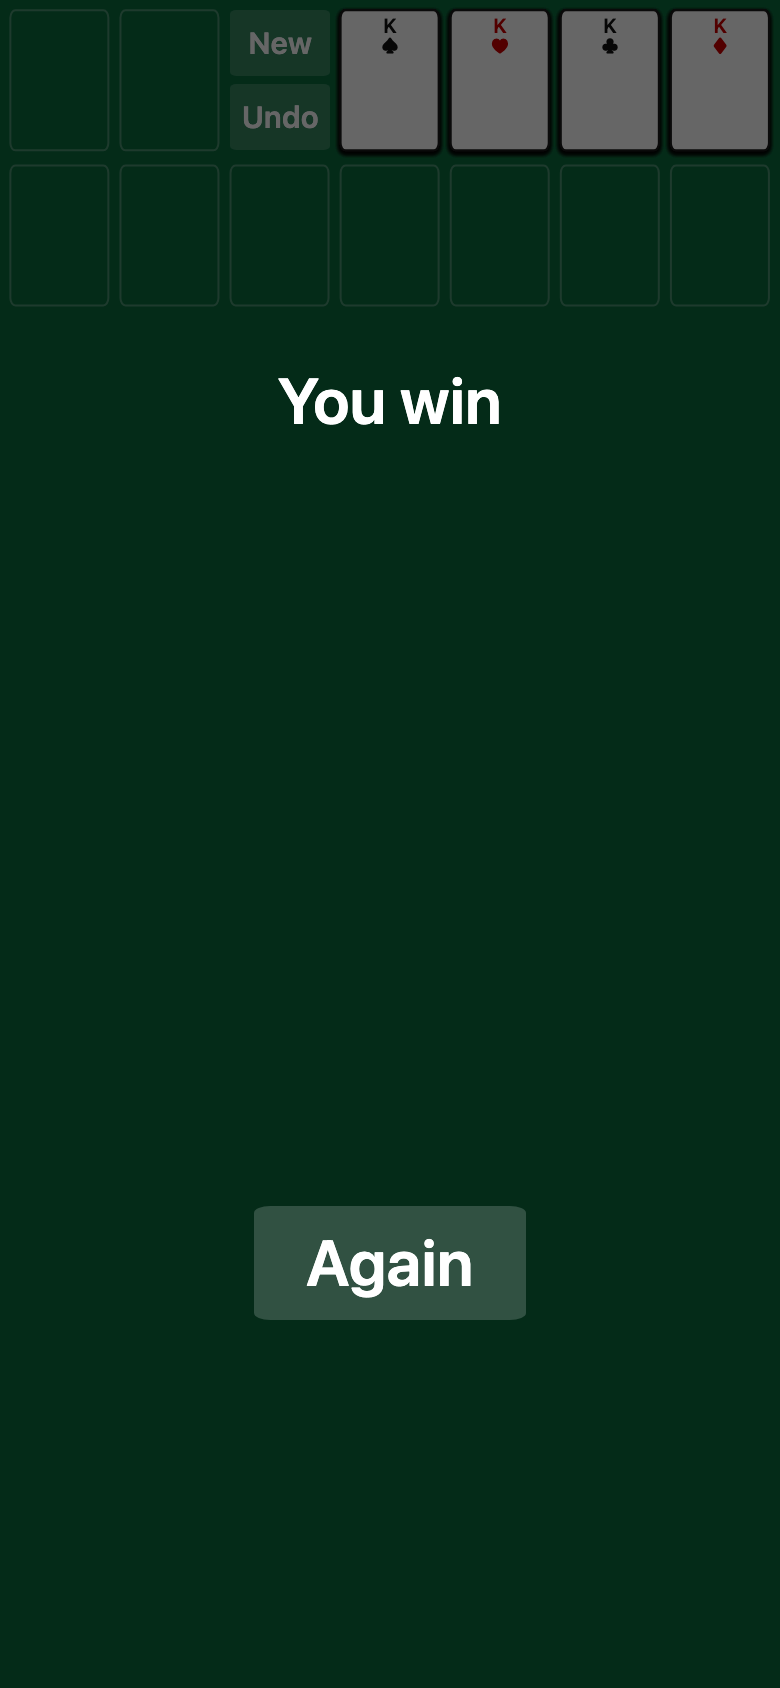
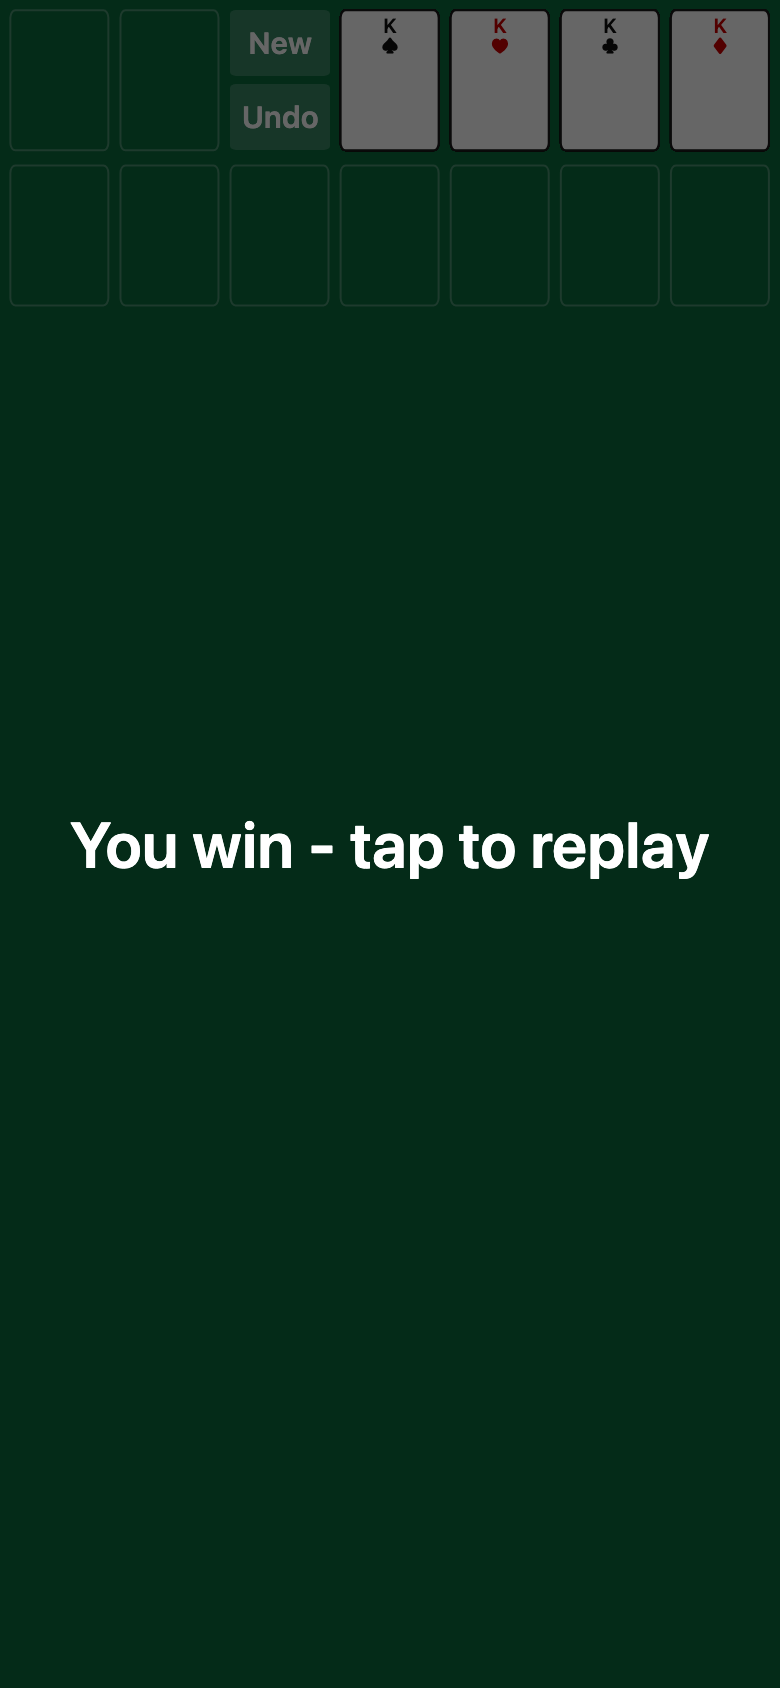
shrink: 7,310 -> 6,950 B raw (3,433 gzip, 2,907 brotli)
Deleted content instead of renaming it, because the served bytes are already
compressed: aliasing getElementById/addEventListener/Math, classList->hidden and
transform->translate all shrink raw while making gzip/brotli *worse* (measured
+37 gzip / +54 brotli), and a destructuring swap cost 23 brotli bytes for zero
raw gain.

Kept:
  - CSS: drop will-change, card/selection shadows, -webkit-user-select,
    height:100%, the win-button rules, 4-digit hex alphas, shorter gradient stops
  - shell: win overlay is tap-anywhere (-50 B, no Again button); HTML attribute
    quotes dropped by the build
  - JS: 65 board nodes from one innerHTML parse, place() reused for the drag,
    bar.style hoist, |0 for Math.floor, [...Array(52).keys()]
  - build gate tightened: raw <= 7,000 and brotli <= 3,000 (was 12 KB / 5 KB)

Verified: 14/14 logic tests, 28/28 headless-Chrome checks (new: tapping the win
overlay deals a new game), screenshots re-reviewed, exactly 1 HTTP request.

diff --git a/dist/index.html b/dist/index.html
@@ -1,2 +1,2 @@
-<!doctype html><html lang="en"><head><meta charset="utf-8"><meta name="viewport" content="width=device-width,initial-scale=1"><title>Solitaire</title><link rel="icon" href="data:,"><style>*{box-sizing:border-box;margin:0;padding:0}html,body{overflow:hidden;font:600 1em/1 var(--f,system-ui);user-select:none;-webkit-user-select:none;touch-action:none;background:#0a6b3d;height:100%}#b{position:fixed;--w:60px;--h:84px;font-variant-emoji:text;inset:0}#b>div{position:absolute;width:var(--w);height:var(--h);border-radius:6%;top:0;left:0}.e{pointer-events:none;border:1px solid #fff4}.c{color:#111;display:grid;white-space:pre;text-align:center;will-change:transform;background:#fff;border:1px solid #1a1a1a;align-content: start;justify-items:center;padding-top:.15em;transition:transform .18s ease-out;line-height:1.05;box-shadow:0 1px 2px #0004}#b.d>div{transition:none}.r{color:#c00}.k{background:repeating-linear-gradient(45deg,#123f6b 0 5px,#1b5c96 5px 10px);border-color:#08203c}.s{outline:.16em solid #fd0;outline-offset:-.16em;box-shadow:0 3px 9px #0005}.p{animation:f .3s ease-out}@keyframes f{50%{background:#ffdf85}}#h{position:fixed;display:flex;flex-direction:column;gap:6%}#h button,#w button{color:#fff;font:inherit;cursor:pointer;background:#ffffff2e;border:0;border-radius:6%;flex:1}#h button:active{background:#fff6}#w{position:fixed;display:none;color:#fff;text-align:center;background:#0009;place-items: center;font-size:2em;inset:0}#w.on{display:grid;animation:o .25s}@keyframes o{0%{opacity:0}}#w button{margin-top:.6em;padding:.4em .8em}@media (prefers-reduced-motion:reduce){.c{transition:none}.p,#w.on{animation:none}}</style></head><body><div id="b"></div><div id="h"><button id="n">New</button><button id="u">Undo</button></div><div id="w">You win<button id="n2">Again</button></div><script>(()=>{var r="A23456789TJQK",p="♠♥♣♦",D=(A)=>A%13,h=(A)=>A/13|0,m=(A)=>(A/13|0)%2>0,U=(A)=>(A&64)>0;function i(A){let q=Array.from({length:52},(I,F)=>F),B=A>>>0||1,C=()=>{return B^=B<<13,B>>>=0,B^=B>>>17,B>>>=0,B^=B<<5,B>>>=0,B/4294967296};for(let I=51;I>0;I--){let F=C()*(I+1)|0,M=q[I];q[I]=q[F],q[F]=M}let G=[],Y=0;for(let I=0;I<7;I++){let F=[];for(let M=0;M<=I;M++)F.push(q[Y++]|(M<I?64:0));G.push(F)}return{t:G,f:[0,0,0,0],s:q.slice(Y),w:[]}}function Z(A,q){if(q.k===0){let B=A.t[q.i];return q.j<B.length?B[q.j]:-1}if(q.k===3)return A.w.length?A.w[A.w.length-1]:-1;if(q.k===1)return A.f[q.i]?q.i*13+A.f[q.i]-1:-1;return-1}function Cq(A,q){for(let B=q;B<A.length-1;B++){let C=A[B],G=A[B+1];if(U(C)||U(G)||D(C)!==D(G)+1||m(C)===m(G))return!1}return!U(A[q])}var u=(A,q)=>{let B=Z(A,q);return B>=0&&!U(B)&&(q.k!==0||Cq(A.t[q.i],q.j))};function Eq(A,q,B){let C=A.t[B];if(!C.length)return D(q)===12;let G=C[C.length-1];return!U(G)&&D(G)===D(q)+1&&m(G)!==m(q)}function s(A,q,B){if(!u(A,q)||q.k===B.k&&q.i===B.i)return!1;let C=Z(A,q);if(B.k===1){if(q.k===1)return!1;if(q.k===0&&q.j!==A.t[q.i].length-1)return!1;if(C!==B.i*13+A.f[B.i])return!1;if(q.k===0)A.t[q.i].pop();else A.w.pop();A.f[B.i]++}else if(B.k===0){if(!Eq(A,C,B.i))return!1;if(q.k===0)A.t[B.i].push(...A.t[q.i].splice(q.j));else if(q.k===3)A.t[B.i].push(A.w.pop());else A.f[q.i]--,A.t[B.i].push(C)}else return!1;if(q.k===0){let G=A.t[q.i];if(G.length&&U(G[G.length-1]))G[G.length-1]^=64}return!0}function d(A){if(A.s.length)return A.w.push(A.s.pop()),!0;if(A.w.length)return A.s=A.w.reverse(),A.w=[],!0;return!1}var g=(A)=>A.f[0]+A.f[1]+A.f[2]+A.f[3]===52,n=(A)=>JSON.stringify(A),e=(A,q)=>Object.assign(A,JSON.parse(q));var T=document.getElementById("b"),t=document.getElementById("w"),K=document.getElementById("h"),Gq=r,Hq=p,W=[],O=[];for(let A=0;A<13;A++){let q=document.createElement("div");q.className="e",T.append(q),O[A]=q}for(let A=0;A<52;A++){let q=document.createElement("div");q.className="c",q._c=A,T.append(q),W[A]=q}var H,S=[],E=0,N=0,V=0,Aq=[],f=0,k=0,w=0,b=0,Q=0,X=0,J=0,R=0,_=99,j=-1,Iq=matchMedia("(prefers-reduced-motion:reduce)").matches,P=(A)=>J+A*(Q+J);function Bq(){Q=Math.min(innerWidth*0.904/7,innerHeight*0.16),J=(innerWidth-7*Q)/8,X=Q*1.4,R=J+X+J*1.5,T.style.setProperty("--w",Q+"px"),T.style.setProperty("--h",X+"px"),T.style.fontSize=Q*0.2+"px",K.style.left=P(2)+"px",K.style.top=J+"px",K.style.width=Q+"px",K.style.height=X+"px",K.style.fontSize=Q*0.3+"px"}function $(A,q,B,C){A.style.transform="translate("+q+"px,"+B+"px)",A.style.zIndex=C,A._x=q,A._y=B}function x(A,q,B,C,G,Y){let I=h(q),F=q%13;A.className="c"+(I%2?" r":"")+(Y?" s":"")+(q===j?" p":""),A.textContent=(F===9?"10":Gq[F])+`
-`+Hq[I],$(A,B,C,G)}function a(A,q,B,C){A.className="c k",A.textContent="",$(A,q,B,C)}function L(){for(let q=0;q<7;q++)$(O[q],P(q),R,0);for(let q=0;q<4;q++)$(O[7+q],P(3+q),J,0);$(O[11],P(0),J,0),$(O[12],P(1),J,0);let A=innerHeight-R-X;for(let q=0;q<7;q++){let B=H.t[q],C=[],G=0;for(let F=0;F<B.length;F++)C.push(G),G+=U(B[F])?X*0.16:X*0.42;let Y=G>A?A/G:1,I=_<99;for(let F=0;F<B.length;F++){let M=W[B[F]&63],y=P(q),o=R+C[F]*Y,v=F+1,c=!U(B[F])&&!I;if(I&&F*7+q>=_)y=P(0),o=J,v=40+F,c=0;if(c)x(M,B[F],y,o,v,E&&E.k===0&&E.i===q&&F>=E.j);else a(M,y,o,v);M._k=0,M._i=q,M._j=F}}for(let q=0;q<4;q++)if(H.f[q]){let B=q*13+H.f[q]-1,C=W[B];x(C,B,P(3+q),J,1,0),C._k=1,C._i=q,C._j=0}for(let q=0;q<H.s.length;q++){let B=W[H.s[q]];a(B,P(0),J,q+1),B._k=2,B._i=0,B._j=q}for(let q=0;q<H.w.length;q++){let B=H.w[q],C=W[B];x(C,B,P(1)+Math.min(H.w.length-1-q,3)*Q*0.14,J,q+1,E&&E.k===3&&q===H.w.length-1),C._k=3,C._i=0,C._j=q}if(V)for(let q of Aq){let B=W[q.v];B.style.transform="translate("+(f+q.x)+"px,"+(k+q.y)+"px)",B.style.zIndex=99}}function qq(A,q){let B=Math.max(0,Math.min(6,Math.floor((A-J)/(Q+J))));if(q<R)return B===0?{k:2}:B===1?{k:3}:B>2?{k:1,i:B-3}:0;return{k:0,i:B}}var Jq=(A)=>A.k===0?H.t[A.i].slice(A.j).map((q)=>q&63):[Z(H,A)&63];function z(A,q){let B=n(H),C=Z(H,A)&63;if(!s(H,A,q))return 0;if(S.push(B),q.k===1)j=C,setTimeout(()=>{j=-1,L()},300);if(g(H))t.classList.add("on");return 1}function Lq(A,q){if(q&&q.k===2){let B=n(H);if(d(H))S.push(B);E=0,L();return}if(!A){if(E&&q)z(E,q),E=0,L();return}if(E&&E.k===A.k&&E.i===A.i&&E.j===A.j){let B=Z(H,E);if(B>=0)z(E,{k:1,i:h(B)});E=0,L();return}if(E&&q&&z(E,q)){E=0,L();return}E=u(H,A)?{k:A.k,i:A.i,j:A.j}:0,L()}T.addEventListener("pointerdown",(A)=>{let q=A.target;N=q._c!=null?{k:q._k,i:q._i,j:q._j}:0,w=f=A.clientX,b=k=A.clientY,V=0});addEventListener("pointermove",(A)=>{if(!N)return;if(f=A.clientX,k=A.clientY,!V){if(Math.abs(f-w)+Math.abs(k-b)<9||!u(H,N))return;E={k:N.k,i:N.i,j:N.j},Aq=Jq(E).map((q)=>({v:q,x:W[q]._x-w,y:W[q]._y-b})),V=1,T.classList.add("d")}L()});addEventListener("pointerup",(A)=>{let q=N;if(N=0,V){if(V=0,T.classList.remove("d"),!z(E,qq(A.clientX,A.clientY)))E=0;L();return}Lq(q,qq(A.clientX,A.clientY))});addEventListener("pointercancel",()=>{N=0,V=0,T.classList.remove("d"),L()});function Mq(){if(!S.length)return;e(H,S.pop()),E=0,V=0,N=0,t.classList.remove("on"),L()}function l(A){if(H=i(A),S=[],E=0,V=0,N=0,j=-1,t.classList.remove("on"),Bq(),L(),Iq)return;_=0,L(),T.offsetHeight;let q=()=>{if(_+=2,_<50)L(),requestAnimationFrame(q);else _=99,L()};requestAnimationFrame(q)}document.getElementById("u").onclick=Mq;document.getElementById("n").onclick=()=>l(Date.now());document.getElementById("n2").onclick=()=>l(Date.now());addEventListener("resize",()=>{Bq(),L()});l(+location.hash.slice(1)||Date.now());})();</script></body></html>
+<!doctype html><html lang=en><head><meta charset=utf-8><meta name=viewport content="width=device-width,initial-scale=1"><title>Solitaire</title><link rel=icon href=data:,><style>*{box-sizing:border-box;margin:0;padding:0}html,body{overflow:hidden;font:600 1em/1 var(--f,system-ui);user-select:none;touch-action:none;background:#0a6b3d}#b{position:fixed;--w:60px;--h:84px;font-variant-emoji:text;inset:0}#b>div{position:absolute;width:var(--w);height:var(--h);border-radius:6%;top:0;left:0}.e{pointer-events:none;border:1px solid #fff4}.c{color:#111;display:grid;white-space:pre;text-align:center;background:#fff;border:1px solid #1a1a1a;align-content: start;justify-items:center;padding-top:.15em;transition:transform .18s ease-out;line-height:1.05}#b.d>div{transition:none}.r{color:#c00}.k{background:repeating-linear-gradient(45deg,#123f6b 0 5px,#1b5c96 0 10px);border-color:#08203c}.s{outline:.16em solid #fd0;outline-offset:-.16em}.p{animation:f .3s ease-out}@keyframes f{50%{background:#ffdf85}}#h{position:fixed;display:flex;flex-direction:column;gap:6%}#h button{color:#fff;font:inherit;cursor:pointer;background:#fff3;border:0;border-radius:6%;flex:1}#h button:active{background:#fff6}#w{position:fixed;display:none;color:#fff;text-align:center;background:#0009;place-items: center;font-size:2em;inset:0}#w.on{display:grid;animation:o .25s}@keyframes o{0%{opacity:0}}@media (prefers-reduced-motion:reduce){.c{transition:none}.p,#w.on{animation:none}}</style></head><body><div id=b></div><div id=h><button id=n>New</button><button id=u>Undo</button></div><div id=w>You win - tap to replay</div><script>(()=>{var r="A23456789TJQK",c="♠♥♣♦",D=(A)=>A%13,h=(A)=>A/13|0,S=(A)=>(A/13|0)%2>0,U=(A)=>(A&64)>0;function p(A){let q=[...Array(52).keys()],B=A>>>0||1,C=()=>{return B^=B<<13,B>>>=0,B^=B>>>17,B>>>=0,B^=B<<5,B>>>=0,B/4294967296};for(let I=51;I>0;I--){let F=C()*(I+1)|0,M=q[I];q[I]=q[F],q[F]=M}let G=[],Z=0;for(let I=0;I<7;I++){let F=[];for(let M=0;M<=I;M++)F.push(q[Z++]|(M<I?64:0));G.push(F)}return{t:G,f:[0,0,0,0],s:q.slice(Z),w:[]}}function _(A,q){if(q.k===0){let B=A.t[q.i];return q.j<B.length?B[q.j]:-1}if(q.k===3)return A.w.length?A.w[A.w.length-1]:-1;if(q.k===1)return A.f[q.i]?q.i*13+A.f[q.i]-1:-1;return-1}function Bq(A,q){for(let B=q;B<A.length-1;B++){let C=A[B],G=A[B+1];if(U(C)||U(G)||D(C)!==D(G)+1||S(C)===S(G))return!1}return!U(A[q])}var m=(A,q)=>{let B=_(A,q);return B>=0&&!U(B)&&(q.k!==0||Bq(A.t[q.i],q.j))};function Cq(A,q,B){let C=A.t[B];if(!C.length)return D(q)===12;let G=C[C.length-1];return!U(G)&&D(G)===D(q)+1&&S(G)!==S(q)}function i(A,q,B){if(!m(A,q)||q.k===B.k&&q.i===B.i)return!1;let C=_(A,q);if(B.k===1){if(q.k===1)return!1;if(q.k===0&&q.j!==A.t[q.i].length-1)return!1;if(C!==B.i*13+A.f[B.i])return!1;if(q.k===0)A.t[q.i].pop();else A.w.pop();A.f[B.i]++}else if(B.k===0){if(!Cq(A,C,B.i))return!1;if(q.k===0)A.t[B.i].push(...A.t[q.i].splice(q.j));else if(q.k===3)A.t[B.i].push(A.w.pop());else A.f[q.i]--,A.t[B.i].push(C)}else return!1;if(q.k===0){let G=A.t[q.i];if(G.length&&U(G[G.length-1]))G[G.length-1]^=64}return!0}function s(A){if(A.s.length)return A.w.push(A.s.pop()),!0;if(A.w.length)return A.s=A.w.reverse(),A.w=[],!0;return!1}var d=(A)=>A.f[0]+A.f[1]+A.f[2]+A.f[3]===52,b=(A)=>JSON.stringify(A),g=(A,q)=>Object.assign(A,JSON.parse(q));var P=document.getElementById("b"),j=document.getElementById("w"),Fq=document.getElementById("h"),Gq=r,Hq=c,W=[],K=[];P.innerHTML="<div></div>".repeat(65);for(let A=0;A<13;A++){let q=K[A]=P.children[A];q.className="e"}for(let A=0;A<52;A++){let q=W[A]=P.children[A+13];q.className="c",q._c=A}var H,R=[],E=0,N=0,V=0,qq=[],u=0,z=0,n=0,w=0,T=0,Y=0,J=0,O=0,$=99,k=-1,Iq=matchMedia("(prefers-reduced-motion:reduce)").matches,Q=(A)=>J+A*(T+J);function Aq(){T=Math.min(innerWidth*0.904/7,innerHeight*0.16),J=(innerWidth-7*T)/8,Y=T*1.4,O=J+Y+J*1.5,P.style.setProperty("--w",T+"px"),P.style.setProperty("--h",Y+"px"),P.style.fontSize=T*0.2+"px";let A=Fq.style;A.left=Q(2)+"px",A.top=J+"px",A.width=T+"px",A.height=Y+"px",A.fontSize=T*0.3+"px"}function X(A,q,B,C){A.style.transform="translate("+q+"px,"+B+"px)",A.style.zIndex=C,A._x=q,A._y=B}function x(A,q,B,C,G,Z){let I=h(q),F=q%13;A.className="c"+(I%2?" r":"")+(Z?" s":"")+(q===k?" p":""),A.textContent=(F===9?"10":Gq[F])+`
+`+Hq[I],X(A,B,C,G)}function e(A,q,B,C){A.className="c k",A.textContent="",X(A,q,B,C)}function L(){for(let q=0;q<7;q++)X(K[q],Q(q),O,0);for(let q=0;q<4;q++)X(K[7+q],Q(3+q),J,0);X(K[11],Q(0),J,0),X(K[12],Q(1),J,0);let A=innerHeight-O-Y;for(let q=0;q<7;q++){let B=H.t[q],C=[],G=0;for(let F=0;F<B.length;F++)C.push(G),G+=U(B[F])?Y*0.16:Y*0.42;let Z=G>A?A/G:1,I=$<99;for(let F=0;F<B.length;F++){let M=W[B[F]&63],y=Q(q),o=O+C[F]*Z,v=F+1,l=!U(B[F])&&!I;if(I&&F*7+q>=$)y=Q(0),o=J,v=40+F,l=0;if(l)x(M,B[F],y,o,v,E&&E.k===0&&E.i===q&&F>=E.j);else e(M,y,o,v);M._k=0,M._i=q,M._j=F}}for(let q=0;q<4;q++)if(H.f[q]){let B=q*13+H.f[q]-1,C=W[B];x(C,B,Q(3+q),J,1,0),C._k=1,C._i=q,C._j=0}for(let q=0;q<H.s.length;q++){let B=W[H.s[q]];e(B,Q(0),J,q+1),B._k=2,B._i=0,B._j=q}for(let q=0;q<H.w.length;q++){let B=H.w[q],C=W[B];x(C,B,Q(1)+Math.min(H.w.length-1-q,3)*T*0.14,J,q+1,E&&E.k===3&&q===H.w.length-1),C._k=3,C._i=0,C._j=q}if(V)for(let q of qq)X(W[q.v],u+q.x,z+q.y,99)}function a(A,q){let B=Math.max(0,Math.min(6,(A-J)/(T+J)|0));if(q<O)return B===0?{k:2}:B===1?{k:3}:B>2?{k:1,i:B-3}:0;return{k:0,i:B}}var Jq=(A)=>A.k===0?H.t[A.i].slice(A.j).map((q)=>q&63):[_(H,A)&63];function f(A,q){let B=b(H),C=_(H,A)&63;if(!i(H,A,q))return 0;if(R.push(B),q.k===1)k=C,setTimeout(()=>{k=-1,L()},300);if(d(H))j.classList.add("on");return 1}function Lq(A,q){if(q&&q.k===2){let B=b(H);if(s(H))R.push(B);E=0,L();return}if(!A){if(E&&q)f(E,q),E=0,L();return}if(E&&E.k===A.k&&E.i===A.i&&E.j===A.j){let B=_(H,E);if(B>=0)f(E,{k:1,i:h(B)});E=0,L();return}if(E&&q&&f(E,q)){E=0,L();return}E=m(H,A)?{k:A.k,i:A.i,j:A.j}:0,L()}P.addEventListener("pointerdown",(A)=>{let q=A.target;N=q._c!=null?{k:q._k,i:q._i,j:q._j}:0,n=u=A.clientX,w=z=A.clientY,V=0});addEventListener("pointermove",(A)=>{if(!N)return;if(u=A.clientX,z=A.clientY,!V){if(Math.abs(u-n)+Math.abs(z-w)<9||!m(H,N))return;E={k:N.k,i:N.i,j:N.j},qq=Jq(E).map((q)=>({v:q,x:W[q]._x-n,y:W[q]._y-w})),V=1,P.classList.add("d")}L()});addEventListener("pointerup",(A)=>{let q=N;if(N=0,V){if(V=0,P.classList.remove("d"),!f(E,a(A.clientX,A.clientY)))E=0;L();return}Lq(q,a(A.clientX,A.clientY))});addEventListener("pointercancel",()=>{N=0,V=0,P.classList.remove("d"),L()});function Mq(){if(!R.length)return;g(H,R.pop()),E=0,V=0,N=0,j.classList.remove("on"),L()}function t(A){if(H=p(A),R=[],E=0,V=0,N=0,k=-1,j.classList.remove("on"),Aq(),L(),Iq)return;$=0,L(),P.offsetHeight;let q=()=>{if($+=2,$<50)L(),requestAnimationFrame(q);else $=99,L()};requestAnimationFrame(q)}document.getElementById("u").onclick=Mq;document.getElementById("n").onclick=()=>t(Date.now());j.onclick=()=>t(Date.now());addEventListener("resize",()=>{Aq(),L()});t(+location.hash.slice(1)||Date.now());})();</script></body></html>

diff --git a/src/ui.js b/src/ui.js
@@ -7,8 +7,10 @@ const b = document.getElementById('b'),
   S = K.SUITS;
 
 const cards = [], slots = [];
-for (let i = 0; i < 13; i++) { const e = document.createElement('div'); e.className = 'e'; b.append(e); slots[i] = e; }
-for (let i = 0; i < 52; i++) { const e = document.createElement('div'); e.className = 'c'; e._c = i; b.append(e); cards[i] = e; }
+// one parse beats 65 createElement/append pairs; order is 13 slots then 52 cards
+b.innerHTML = '<div></div>'.repeat(65);
+for (let i = 0; i < 13; i++) { const e = slots[i] = b.children[i]; e.className = 'e'; }
+for (let i = 0; i < 52; i++) { const e = cards[i] = b.children[i + 13]; e.className = 'c'; e._c = i; }
 
 let g, hist = [], sel = 0, dn = 0, drag = 0, dl = [], px = 0, py = 0, sx = 0, sy = 0;
 let cw = 0, ch = 0, pad = 0, row2 = 0, dealt = 99, pop = -1;
@@ -24,11 +26,12 @@ function size() {
   b.style.setProperty('--w', cw + 'px');
   b.style.setProperty('--h', ch + 'px');
   b.style.fontSize = cw * 0.2 + 'px';
-  bar.style.left = cx(2) + 'px';
-  bar.style.top = pad + 'px';
-  bar.style.width = cw + 'px';
-  bar.style.height = ch + 'px';
-  bar.style.fontSize = cw * 0.3 + 'px';
+  const st = bar.style;
+  st.left = cx(2) + 'px';
+  st.top = pad + 'px';
+  st.width = cw + 'px';
+  st.height = ch + 'px';
+  st.fontSize = cw * 0.3 + 'px';
 }
 
 function place(e, x, y, z) {
@@ -79,15 +82,11 @@ function draw() {
     face(e, c, cx(1) + Math.min(g.w.length - 1 - i, 3) * cw * 0.14, pad, i + 1, sel && sel.k === 3 && i === g.w.length - 1);
     e._k = 3; e._i = 0; e._j = i;
   }
-  if (drag) for (const d of dl) {
-    const e = cards[d.v];
-    e.style.transform = 'translate(' + (px + d.x) + 'px,' + (py + d.y) + 'px)';
-    e.style.zIndex = 99;
-  }
+  if (drag) for (const d of dl) place(cards[d.v], px + d.x, py + d.y, 99);
 }
 
 function hit(x, y) {
-  const i = Math.max(0, Math.min(6, Math.floor((x - pad) / (cw + pad))));
+  const i = Math.max(0, Math.min(6, (x - pad) / (cw + pad) | 0));
   if (y < row2) return i === 0 ? { k: 2 } : i === 1 ? { k: 3 } : i > 2 ? { k: 1, i: i - 3 } : 0;
   return { k: 0, i };
 }
@@ -188,7 +187,7 @@ function fresh(seed) {
 
 document.getElementById('u').onclick = undo;
 document.getElementById('n').onclick = () => fresh(Date.now());
-document.getElementById('n2').onclick = () => fresh(Date.now());
+win.onclick = () => fresh(Date.now()); // tap anywhere on the win overlay to replay
 addEventListener('resize', () => { size(); draw(); });
 
 fresh(+location.hash.slice(1) || Date.now());

diff --git a/src/style.css b/src/style.css
@@ -1,13 +1,11 @@
 * { margin: 0; padding: 0; box-sizing: border-box }
 
 html, body {
-  height: 100%;
   overflow: hidden;
   background: #0a6b3d;
   /* var() keeps the CSS minifier from expanding `system-ui` into a 130-byte stack */
   font: 600 1em/1 var(--f, system-ui);
   user-select: none;
-  -webkit-user-select: none;
   touch-action: none;
 }
 
@@ -22,7 +20,7 @@ html, body {
   border-radius: 6%;
 }
 
-.e { border: 1px solid #ffffff44; pointer-events: none }
+.e { border: 1px solid #fff4; pointer-events: none }
 
 .c {
   background: #fff;
@@ -36,8 +34,6 @@ html, body {
   white-space: pre;
   text-align: center;
   line-height: 1.05;
-  will-change: transform;
-  box-shadow: 0 1px 2px #0004;
   transition: transform .18s ease-out;
 }
 
@@ -47,11 +43,11 @@ html, body {
 .r { color: #c00 }
 
 .k {
-  background: repeating-linear-gradient(45deg, #123f6b 0 5px, #1b5c96 5px 10px);
+  background: repeating-linear-gradient(45deg, #123f6b 0 5px, #1b5c96 0 10px);
   border-color: #08203c;
 }
 
-.s { outline: .16em solid #fd0; outline-offset: -.16em; box-shadow: 0 3px 9px #0005 }
+.s { outline: .16em solid #fd0; outline-offset: -.16em }
 
 /* flash when a card lands on a foundation */
 .p { animation: f .3s ease-out }
@@ -59,17 +55,17 @@ html, body {
 
 #h { position: fixed; display: flex; flex-direction: column; gap: 6% }
 
-#h button, #w button {
+#h button {
   flex: 1;
   border: 0;
   border-radius: 6%;
-  background: #ffffff2e;
+  background: #fff3;
   color: #fff;
   font: inherit;
   cursor: pointer;
 }
 
-#h button:active { background: #ffffff66 }
+#h button:active { background: #fff6 }
 
 #w {
   position: fixed;
@@ -84,8 +80,6 @@ html, body {
 
 #w.on { display: grid; animation: o .25s }
 @keyframes o { from { opacity: 0 } }
-
-#w button { margin-top: .6em; padding: .4em .8em }
 
 @media (prefers-reduced-motion: reduce) {
   .c { transition: none }

diff --git a/src/game.js b/src/game.js
@@ -13,7 +13,7 @@ export const down = v => (v & DOWN) > 0;
 
 // xorshift32 -> reproducible deals from a small integer seed
 export function deal(seed) {
-  const d = Array.from({ length: 52 }, (_, i) => i);
+  const d = [...Array(52).keys()];
   let x = (seed >>> 0) || 1;
   const rnd = () => {
     x ^= x << 13; x >>>= 0;
@@ -22,6 +22,7 @@ export function deal(seed) {
     return x / 4294967296;
   };
   for (let i = 51; i > 0; i--) {
+    // temp-variable swap, not destructuring: same bytes raw, 23 fewer brotli
     const j = (rnd() * (i + 1)) | 0, t = d[i];
     d[i] = d[j]; d[j] = t;
   }

diff --git a/src/index.html b/src/index.html
@@ -10,7 +10,7 @@
 <body>
 <div id="b"></div>
 <div id="h"><button id="n">New</button><button id="u">Undo</button></div>
-<div id="w">You win<button id="n2">Again</button></div>
+<div id="w">You win - tap to replay</div>
 <script>/*!JS*/</script>
 </body>
 </html>

diff --git a/README.md b/README.md
@@ -6,7 +6,7 @@ A complete Klondike (draw-1) solitaire that fits in **one self-contained HTML do
 no external images, fonts or scripts — no requests of any kind beyond the page itself.
 
 ```
-dist/index.html        7,310 B raw        3,527 B gzip -9       2,966 B brotli -q11
+dist/index.html        6,950 B raw        3,433 B gzip -9       2,907 B brotli -q11
 ```
 
 That is the whole game — HTML, CSS, 52-card deck, rules engine, renderer, input
@@ -20,7 +20,7 @@ handling and its animations — fetched in **exactly 1 HTTP request** (verified,
 | Move a card or a run | tap it, then tap the destination column (empty slot or a top card) |
 | Send a card home | tap it twice (second tap tries its foundation) |
 | Drag and drop | press and move — tap-to-move is just the no-drag path |
-| Undo / New deal | the two buttons in the third column, or the win overlay's "Again" |
+| Undo / New deal | the New and Undo buttons in the third column; after a win, tap anywhere |
 
 Tableau builds down in alternating colors, only a King opens an empty column, runs move
 as a unit, foundations build up by suit, revealed tableau cards flip themselves.
@@ -47,7 +47,26 @@ reproducible shuffle (the built-in xorshift32 PRNG), and it is also the test ent
 | Deal animation reuses the same `draw()` (cards parked on the stock, `dealt` counter stepped by rAF) | staggered deal from ~10 lines, no keyframes, no per-card delays |
 | `font: 600 1em/1 var(--f, system-ui)` | dodges the CSS minifier's 130-byte `system-ui` stack expansion (measured: −90 B raw, −61 B brotli) |
 | 1–2 character ids/classes (`#b`, `.c`, `.k`, `.r`, `.s`, `.p`), seeded deal | fewer bytes in both CSS and HTML |
-| `bun build --minify` (esbuild) for JS + CSS, whitespace/comment HTML minify | JS 5,449 B, CSS 1,340 B |
+| 65 board nodes built by one `innerHTML` parse + `String.repeat` | beats 65 `createElement`/`append` pairs |
+| `bun build --minify` (esbuild) for JS + CSS, whitespace/comment HTML minify, HTML attribute quotes removed | JS 5,318 B, CSS 1,280 B, shell 352 B |
+| Pre-compressed `dist/index.html.br` / `.gz` written by the build | brotli 2.84 KB over the wire where the host supports it |
+
+### What actually shrinks the file (measured, and counter-intuitive)
+
+The served bytes are already compressed, so removing *repetition* is worthless and can be
+counter-productive:
+
+| change | raw | gzip | brotli |
+|---|---|---|---|
+| CSS: drop `will-change`, card/selection shadows, `-webkit-user-select`, the redundant win-button rules, 4-digit hex, shorter gradient stops | −173 | −79 | −77 |
+| shell + JS: drop the Again button, unquote HTML attributes, build all 65 nodes with one `innerHTML` parse, reuse `place()` for the drag, hoist `bar.style`, `\|0` instead of `Math.floor` | −187 | −15 | +18 |
+| *rejected:* alias `getElementById`/`addEventListener`/`Math`, `classList`→`hidden`, `transform`→`translate` (measured against the 7,310 B file) | −165 | **+37** | **+54** |
+| *rejected:* destructuring swap instead of a temp variable | 0 | 0 | **+23** |
+
+**Total: 7,310 → 6,950 raw (−4.9 %), 3,527 → 3,433 gzip (−2.7 %), 2,966 → 2,907 brotli (−2.0 %)**, of
+which every byte came from deleting content rather than renaming it. The last two rows are
+deliberately *not* in the file: the temp-variable swap is kept because it is the same size
+raw but 23 bytes cheaper brotli.
 | Pre-compressed `dist/index.html.br` / `.gz` written by the build | brotli 2.83 KB over the wire, no runtime compression |
 
 Measured step by step with `node build.mjs`, which prints the raw/gzip/brotli table and
@@ -92,7 +111,8 @@ node serve.mjs                # PORT=8080 node serve.mjs -> http://127.0.0.1:808
 * **The UI is the engine** — that same winning line (seed 21, 332 moves) is replayed in
   real Chrome by dispatching actual mouse events at computed coordinates, asserting after
   *every* move that the DOM's pile assignment for all 52 cards equals the engine's state,
-  then that the win overlay appears with 52 cards home.
+  then that the win overlay appears with 52 cards home, and that tapping the overlay
+  (its only control — there is no button any more) deals a fresh game.
 * **Rendering** — 52 cards, exactly 7 faces at the deal, rank+suit glyphs are real text
   (no tofu/emoji), the ten renders as `10` rather than `T`, each face is measured to be
   two lines with the rank above the suit and both horizontally centred, the face is
@@ -153,8 +173,8 @@ Two things to know about GitHub Pages specifically: it serves the document **gzi
 `brotli_static` gets 2,966 B and immutable caching:
 
 ```nginx
-brotli_static on;      # serves index.html.br (2.9 KB) when the client accepts br
-gzip_static on;        # falls back to index.html.gz (3.4 KB)
+brotli_static on;      # serves index.html.br (2,907 B) when the client accepts br
+gzip_static on;        # falls back to index.html.gz (3,433 B)
 location = / { add_header Cache-Control "public, max-age=31536000, immutable"; }
 ```
 
